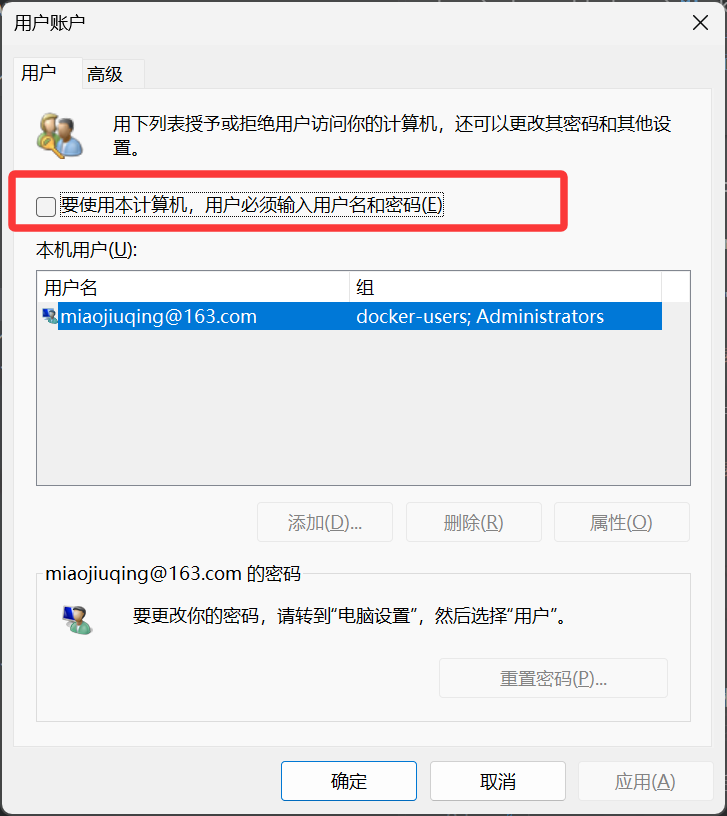
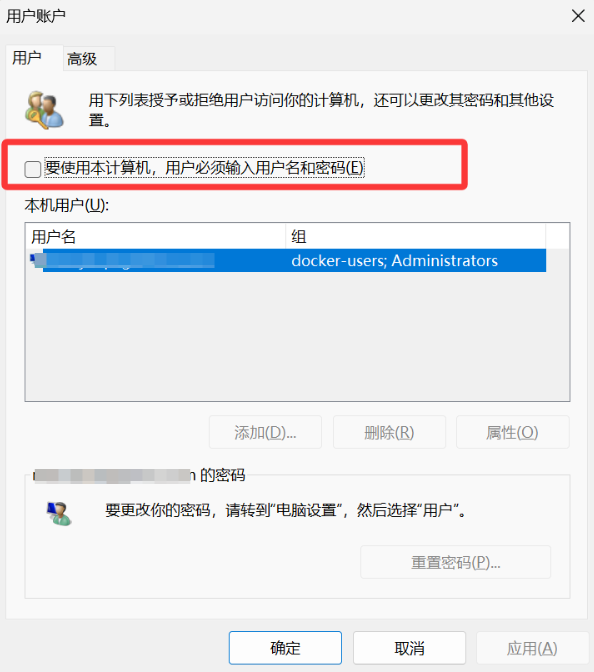
docs: 漏邮箱了)还有几个字没删掉

diff --git a/docs/advanced-features/skip-password.md b/docs/advanced-features/skip-password.md
@@ -228,12 +228,11 @@ netplwiz
 
 <details>
 
-<summary>此页内容参考</summary>
+<summary>此页内容参考了</summary>
 
 - 若有侵权请联系该页作者删除
 
 [【赤石科技】如何让电脑每天四点钟自启动做米游日常（附教程）](<https://www.bilibili.com/video/BV1pKwxzwEaP?vd_source=43fdeaf65ea5c12a419d74d955a2ebfd>)
-以及通义千问
 
 [教程｜开机直接进桌面！Win11 电脑免密码免 PIN 自动登录（三种方法&设置简单）](<https://www.bilibili.com/video/BV1QY411q7cT?vd_source=43fdeaf65ea5c12a419d74d955a2ebfd>)
 
